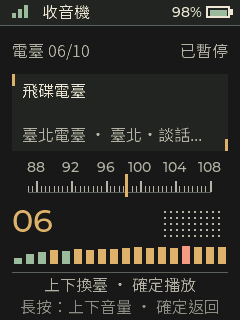
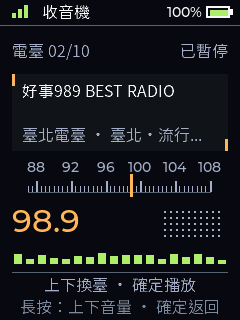
feat: replace bcc news with best radio 989

diff --git a/main/apps/radio/radio_presets.h b/main/apps/radio/radio_presets.h
@@ -14,7 +14,7 @@ inline constexpr RadioStation kRadioPresets[] = {
     {"中国之声", "MP3回归测试", "http://lhttp.qingting.fm/live/15318317/64k.mp3", 0},
 #else
     {"ICRT", "臺北・英語與音樂", "https://stream.rcs.revma.com/x27mfpztxp3vv", 0},
-    {"中廣新聞網", "臺北・新聞時事", "https://stream.rcs.revma.com/78fm9wyy2tzuv", 0},
+    {"好事989 BEST RADIO", "臺北・流行音樂", "https://stream.rcs.revma.com/fkdywbc59duvv", 989},
     {"中廣流行網", "臺北・生活綜合", "https://stream.rcs.revma.com/aw9uqyxy2tzuv", 0},
     {"中廣音樂網", "臺北・音樂節目", "https://stream.rcs.revma.com/ndk05tyy2tzuv", 0},
     {"九八新聞台", "臺北・新聞訪談", "https://stream.rcs.revma.com/pntx1639ntzuv", 0},

diff --git a/docs/README.en.md b/docs/README.en.md
@@ -2,7 +2,7 @@
 
 [繁體中文](../README.md) · [Documentation index](index.md) · [Changelog](../CHANGELOG.md)
 
-Community firmware for the **FoloToy AI Passport, ESP32-C3, 8 MB Flash**, based on [manchunx7-bit/passport-os](https://github.com/manchunx7-bit/passport-os) `0.2.0-rc.56`. This fork's firmware version is **`0.2.0-rc.56-tw-scroll`**.
+Community firmware for the **FoloToy AI Passport, ESP32-C3, 8 MB Flash**, based on [manchunx7-bit/passport-os](https://github.com/manchunx7-bit/passport-os) `0.2.0-rc.56`. This fork's firmware version is **`0.2.0-rc.56-tw-best989`**.
 
 ## What this fork adds
 
@@ -33,7 +33,7 @@ This fork is currently distributed as source. A GitHub Source code ZIP is **not*
 ## Radio presets
 
 1. ICRT
-2. BCC News / 中廣新聞網
+2. BEST RADIO 98.9 / 好事989
 3. BCC Pop / 中廣流行網
 4. BCC Music / 中廣音樂網
 5. News98 / 九八新聞台
@@ -80,7 +80,7 @@ USB power does not turn this firmware into a USB microphone or install a desktop
 
 ## Verification and limits
 
-[The current marquee verification](verification-tw-scroll.json) compares actual device captures for moving long text and stationary short text, with home re-entry and profile-preservation checks. [The portrait verification](verification-tw-portrait.json) records build, renderer, storage, browser, and device tests for the color/monochrome feature. The actual ESP32 retained monochrome mode across a reset, restored the original RGB palette, and preserved the user's original avatar/profile. [The previous version's device record](verification-tw-radio.json) separately retains successful decoding/PCM output for all ten stations.
+[The BEST RADIO replacement verification](verification-tw-best989.json) records the updated second preset and device playback. [The marquee verification](verification-tw-scroll.json) compares actual device captures for moving long text and stationary short text, with home re-entry and profile-preservation checks. [The portrait verification](verification-tw-portrait.json) records build, renderer, storage, browser, and device tests for the color/monochrome feature. The actual ESP32 retained monochrome mode across a reset, restored the original RGB palette, and preserved the user's original avatar/profile. [The previous version's device record](verification-tw-radio.json) separately retains successful decoding/PCM output for all ten stations.
 
 The radio check was not a human listening assessment. Font coverage remains a subset. External stations and AI services require their own availability and setup. The full upstream host suite has pre-existing macOS Clang/linker compatibility issues, so only the documented targeted checks are claimed as passing.
 

diff --git a/README.md b/README.md
@@ -2,7 +2,7 @@
 
 讓 FoloToy AI Passport 顯示繁體中文、保留彩色頭像，並直接收聽十個臺北與臺灣電臺。
 
-**版本：`0.2.0-rc.56-tw-scroll`** · [English](docs/README.en.md) · [文件目錄](docs/index.md) · [版本紀錄](CHANGELOG.md)
+**版本：`0.2.0-rc.56-tw-best989`** · [English](docs/README.en.md) · [文件目錄](docs/index.md) · [版本紀錄](CHANGELOG.md)
 
 本專案是 [manchunx7-bit/passport-os](https://github.com/manchunx7-bit/passport-os) 的衍生版本，以 `0.2.0-rc.56` 為基礎。適用硬體為 **FoloToy AI Passport、ESP32-C3、8 MB Flash**；其他外觀相似的 ESP32 板子不能直接套用。
 
@@ -39,7 +39,7 @@
 | 序號 | 電臺 | 串流 |
 | --- | --- | --- |
 | 1 | ICRT | AAC 直連 |
-| 2 | 中廣新聞網 | AAC 直連 |
+| 2 | 好事989 BEST RADIO | AAC 直連 |
 | 3 | 中廣流行網 | AAC 直連 |
 | 4 | 中廣音樂網 | AAC 直連 |
 | 5 | 九八新聞台 | AAC 直連 |
@@ -83,7 +83,8 @@ IDF_DIR=/path/to/esp-idf bash build.sh release
 
 前一版已在實際 ESP32-C3 上確認十個電臺解碼產生 PCM 並送入裝置音訊輸出，彩色頭像亦經實機 RGB 色塊驗證。單色／彩色切換已通過主機、瀏覽器及實機測試，確認重新開機後保留選擇與原始色彩。本版另以不同時間的實機截圖確認長簽名會捲動、短簽名保持靜止，並完成首頁重入、記憶體與個人資料保留檢查。
 
-- [本版簽名跑馬燈驗證](docs/verification-tw-scroll.json)
+- [本版好事989替換驗證](docs/verification-tw-best989.json)
+- [簽名跑馬燈驗證](docs/verification-tw-scroll.json)
 - [單色／彩色切換驗證](docs/verification-tw-portrait.json)
 - [前版實機驗證紀錄](docs/verification-tw-radio.json)
 - [測試指令與已知限制](docs/DEVELOPMENT.zh-TW.md#執行測試)

diff --git a/docs/index.md b/docs/index.md
@@ -16,7 +16,8 @@
 | --- | --- |
 | [開發與驗證](DEVELOPMENT.zh-TW.md) | 原始碼入口、建置、電臺修改、字型重現、頭像格式與測試 |
 | [版本紀錄](../CHANGELOG.md) | 本 fork 的版本差異與已知限制 |
-| [本版跑馬燈驗證](verification-tw-scroll.json) | `0.2.0-rc.56-tw-scroll` 的長／短簽名顯示與實機檢查 |
+| [本版電臺替換驗證](verification-tw-best989.json) | `0.2.0-rc.56-tw-best989` 的第 2 臺替換與實機播放檢查 |
+| [跑馬燈驗證](verification-tw-scroll.json) | `0.2.0-rc.56-tw-scroll` 的長／短簽名顯示與實機檢查 |
 | [頭像模式驗證](verification-tw-portrait.json) | `0.2.0-rc.56-tw-portrait` 的建置、模式切換與實機保留資料結果 |
 | [前版實機紀錄](verification-tw-radio.json) | `0.2.0-rc.56-tw-radio` 的已部署鏡像與實機結果 |
 | [第三方資源](THIRD-PARTY-zh-TW.md) | 思源黑體 TC、OpenCC 來源與授權 |

diff --git a/CHANGELOG.md b/CHANGELOG.md
@@ -2,6 +2,12 @@
 
 本檔記錄 [lunkerchen/passport-os](https://github.com/lunkerchen/passport-os) 衍生版本。上游版本背景見 [rc.56 說明](docs/release-rc56.md)，實際使用方式見 [README](README.md)。
 
+## 0.2.0-rc.56-tw-best989
+
+- 將第 2 臺「中廣新聞網」替換為「好事989 BEST RADIO」，使用臺北人人廣播電臺的 AAC 直連串流，刻度設定為 FM 98.9。
+- 其餘九臺清單完全保留，沒有改動頭像模式或簽名跑馬燈。
+- 建置、大小／SRAM 預算與電臺欄位檢查通過；實機播放結果見[本版摘要](docs/verification-tw-best989.json)。
+
 ## 0.2.0-rc.56-tw-scroll
 
 - 首頁「想說的話／個性簽名」超出欄位寬度時，改用橫向循環跑馬燈顯示完整內容；短文字維持靜止。

diff --git a/docs/DEVELOPMENT.zh-TW.md b/docs/DEVELOPMENT.zh-TW.md
@@ -2,7 +2,7 @@
 
 [文件目錄](index.md) · [安裝與分割區](INSTALL.zh-TW.md) · [第三方資源](THIRD-PARTY-zh-TW.md)
 
-本 fork 以 Passport OS `0.2.0-rc.56` 為基礎，版本字串是 `0.2.0-rc.56-tw-scroll`。建置使用 **ESP-IDF 5.5.3**；不要因其他 ESP32 專案改用新版 SDK，就直接替換這個專案的依賴。
+本 fork 以 Passport OS `0.2.0-rc.56` 為基礎，版本字串是 `0.2.0-rc.56-tw-best989`。建置使用 **ESP-IDF 5.5.3**；不要因其他 ESP32 專案改用新版 SDK，就直接替換這個專案的依賴。
 
 ## 程式入口與目錄
 

diff --git a/docs/INSTALL.zh-TW.md b/docs/INSTALL.zh-TW.md
@@ -2,7 +2,7 @@
 
 [文件目錄](index.md) · [日常操作](USAGE.zh-TW.md) · [疑難排解](TROUBLESHOOTING.zh-TW.md)
 
-本指南對應 `0.2.0-rc.56-tw-scroll`。適用 FoloToy AI Passport、ESP32-C3、8 MB Flash。若裝置已能使用目前版本，不需要為了換照片、改簽名或使用隨身語音再刷機。
+本指南對應 `0.2.0-rc.56-tw-best989`。適用 FoloToy AI Passport、ESP32-C3、8 MB Flash。若裝置已能使用目前版本，不需要為了換照片、改簽名或使用隨身語音再刷機。
 
 ## 先判斷要走哪一條路
 

diff --git a/README.zh-TW.md b/README.zh-TW.md
@@ -8,7 +8,8 @@
 - [疑難排解](docs/TROUBLESHOOTING.zh-TW.md)
 - [開發、字型與測試](docs/DEVELOPMENT.zh-TW.md)
 - [版本紀錄](CHANGELOG.md)
-- [本版跑馬燈驗證](docs/verification-tw-scroll.json)
+- [本版好事989替換驗證](docs/verification-tw-best989.json)
+- [跑馬燈驗證](docs/verification-tw-scroll.json)
 - [頭像模式驗證](docs/verification-tw-portrait.json)
 - [前版實機紀錄](docs/verification-tw-radio.json)
 - [English](docs/README.en.md)

diff --git a/docs/TROUBLESHOOTING.zh-TW.md b/docs/TROUBLESHOOTING.zh-TW.md
@@ -2,7 +2,7 @@
 
 [文件目錄](index.md) · [安裝與升級](INSTALL.zh-TW.md) · [日常操作](USAGE.zh-TW.md)
 
-先確認使用的是本 fork 的 `0.2.0-rc.56-tw-scroll`。原作者的其他版本、Source code ZIP，以及電腦端的語音程式，是不同檔案與用途。
+先確認使用的是本 fork 的 `0.2.0-rc.56-tw-best989`。原作者的其他版本、Source code ZIP，以及電腦端的語音程式，是不同檔案與用途。
 
 ## USB 與燒錄
 

diff --git a/docs/USAGE.zh-TW.md b/docs/USAGE.zh-TW.md
@@ -2,7 +2,7 @@
 
 [文件目錄](index.md) · [安裝與升級](INSTALL.zh-TW.md) · [疑難排解](TROUBLESHOOTING.zh-TW.md)
 
-本指南對應 `0.2.0-rc.56-tw-scroll`。按鍵名稱採裝置畫面上的「上、下、確定」；短按與長按有不同用途。
+本指南對應 `0.2.0-rc.56-tw-best989`。按鍵名稱採裝置畫面上的「上、下、確定」；短按與長按有不同用途。
 
 ## 首頁與應用程式選單
 
